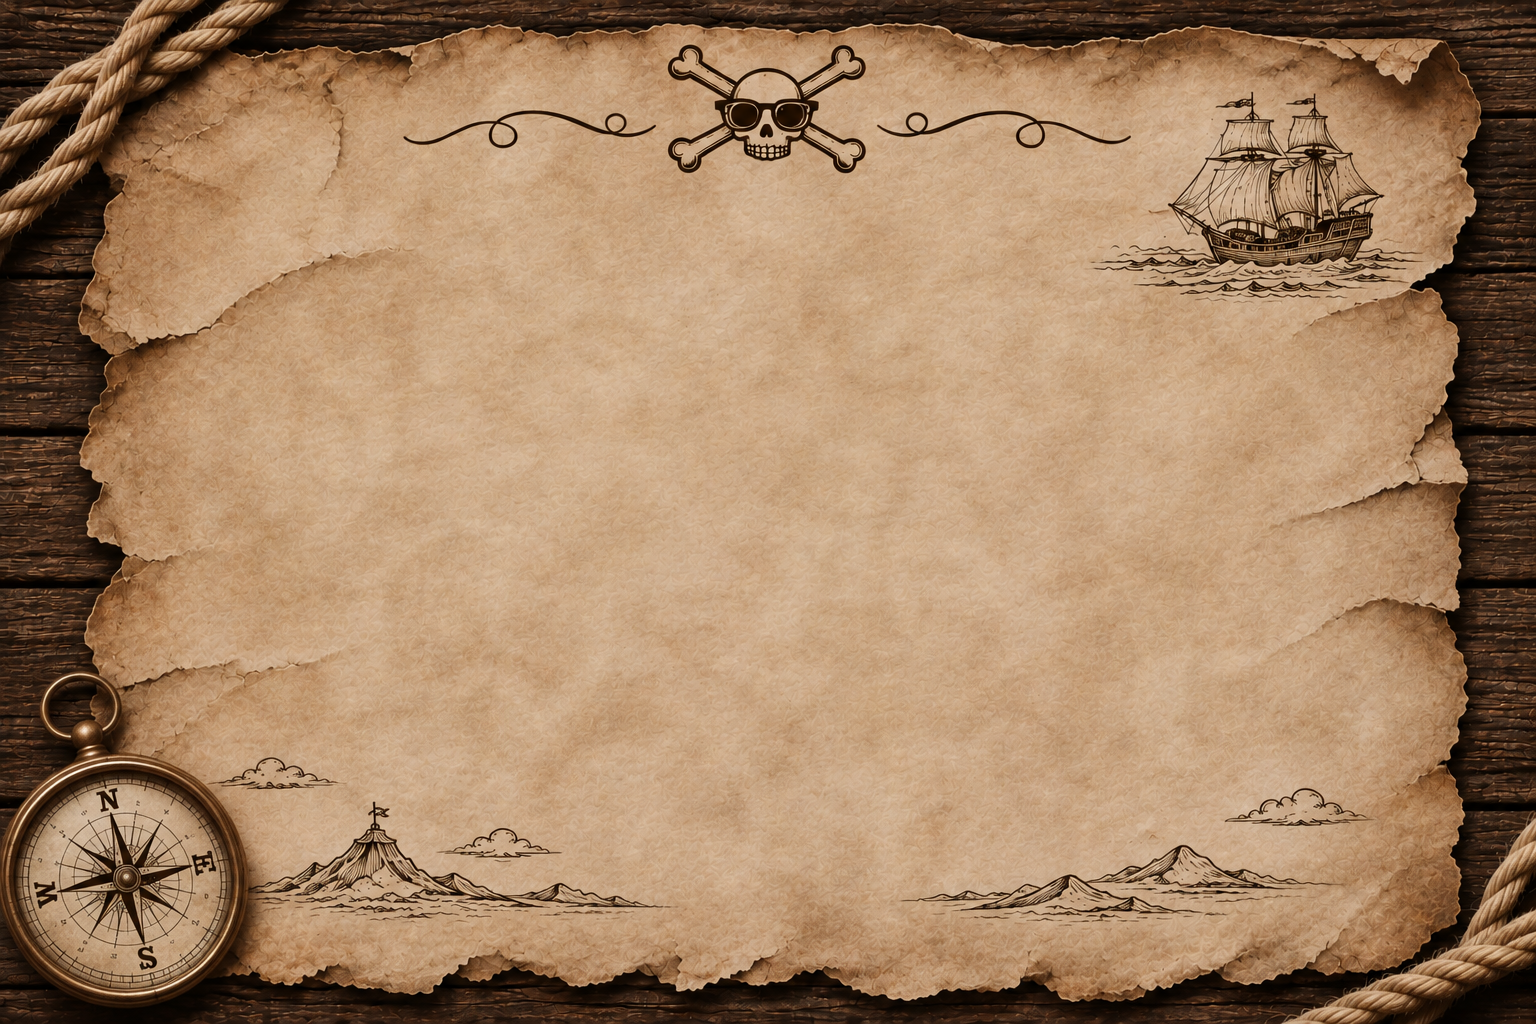
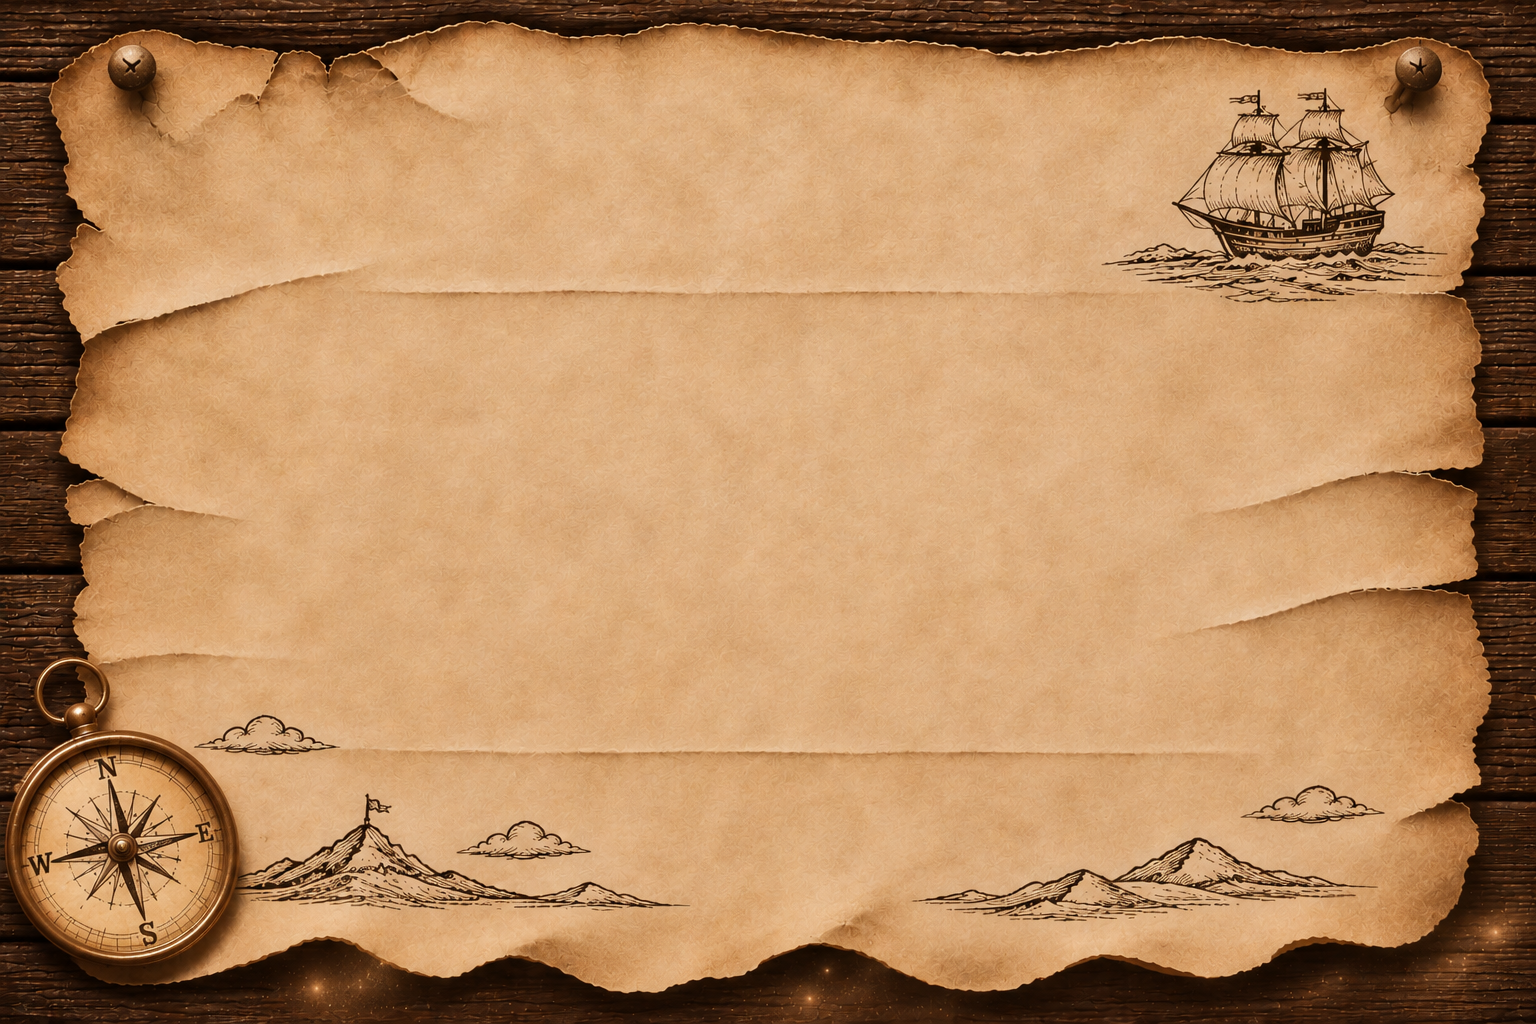
Apply final wanted poster design with dust animation

diff --git a/crew.html b/crew.html
@@ -6,8 +6,6 @@
   <meta name="viewport" content="width=device-width, initial-scale=1">
   <title>WANTED | Grand Security Line</title>
 
-  <link rel="preconnect" href="https://fonts.googleapis.com">
-  <link rel="preconnect" href="https://fonts.gstatic.com" crossorigin>
   <link href="https://fonts.googleapis.com/css2?family=Pirata+One&family=Noto+Serif+KR:wght@400;600;700&display=swap" rel="stylesheet">
 
   <style>
@@ -16,59 +14,56 @@
     body {
       margin: 0;
       min-height: 100vh;
-      padding: 24px 12px;
+      padding: 25px 12px;
       background: #24170f;
       font-family: "Noto Serif KR", serif;
-      color: #382015;
+      color: #3e2618;
     }
 
     .poster {
       position: relative;
-      isolation: isolate;
       width: min(100%, 1150px);
-      min-height: 720px;
+      min-height: 750px;
       margin: auto;
-      padding: 155px 13% 125px;
-      background-image: url("/voyage/wanted-bg.png");
-      background-position: center;
-      background-repeat: no-repeat;
-      background-size: 100% 100%;
+      padding: 125px 13% 130px;
+      background: url("/voyage/wanted-bg.png")
+                  center / 100% 100% no-repeat;
       text-align: center;
+      isolation: isolate;
     }
 
-    .poster-content {
+    .content {
       position: relative;
       z-index: 2;
+      animation: appear 1.2s ease-out both;
     }
 
     .wanted {
       margin: 0;
-      color: #68291c;
-      font-family: "Pirata One", serif;
-      font-size: clamp(58px, 9vw, 100px);
-      line-height: 1.1;
+      font-family: "Pirata One", Georgia, serif;
+      font-size: clamp(54px, 8vw, 92px);
+      font-weight: 400;
       letter-spacing: 3px;
+      line-height: 1.1;
+      color: #632f20;
     }
 
     .brand {
-      margin: 8px 0 28px;
-      font-size: 13px;
+      margin: 10px 0 25px;
+      font-size: 12px;
       font-weight: 700;
       letter-spacing: 3px;
     }
 
     .description {
       margin: 0 0 28px;
-      font-size: clamp(14px, 2vw, 19px);
+      font-size: clamp(14px, 2vw, 18px);
       font-weight: 700;
     }
 
     .ranking {
-      width: 100%;
-      border: 2px solid #704a2e;
-      border-radius: 4px;
-      overflow: hidden;
-      background: rgba(238, 213, 174, .13);
+      border: 1px solid rgba(85, 49, 27, .6);
+      background: rgba(238, 210, 166, .08);
     }
 
     table {
@@ -79,91 +74,173 @@
 
     th, td {
       padding: 15px 8px;
-      border-bottom: 1px solid rgba(85, 51, 27, .35);
+      border-bottom: 1px solid rgba(85, 49, 27, .28);
       overflow-wrap: anywhere;
     }
 
     th {
-      background: rgba(100, 62, 32, .12);
-      font-weight: 700;
+      background: rgba(99, 58, 30, .13);
+      font-size: 15px;
     }
 
-    th:first-child { width: 20%; }
-    th:last-child { width: 25%; }
+    td { font-size: 15px; }
+
+    th:first-child { width: 19%; }
+    th:last-child { width: 26%; }
 
     tbody tr:last-child td {
       border-bottom: none;
     }
 
+    tbody tr:first-child:not(:only-child) {
+      font-weight: 700;
+    }
+
     .note {
       margin: 25px 0 0;
       font-size: 12px;
-      color: #65482f;
+      opacity: .8;
     }
 
     .back {
       display: inline-block;
       margin-top: 30px;
-      padding: 12px 26px;
-      border: 2px solid #68452c;
+      padding: 11px 25px;
+      border: 1px solid #68452c;
+      background: rgba(230, 196, 148, .3);
       color: #422817;
-      background: rgba(224, 190, 142, .55);
       text-decoration: none;
       font-weight: 700;
       transition: background .2s;
     }
 
     .back:hover {
-      background: #d0a876;
+      background: rgba(113, 69, 38, .2);
     }
 
-    /* 오른쪽에서 날아와 꽂히는 칼 */
-    .sword {
+    /* 종이 아래쪽의 미세한 바람 그림자 */
+    .paper-shadow {
       position: absolute;
-      z-index: 3;
-      top: 25%;
-      right: 4%;
-      width: clamp(130px, 22vw, 245px);
-      height: auto;
+      z-index: 1;
+      left: 12%;
+      right: 12%;
+      bottom: 3%;
+      height: 18px;
+      border-radius: 50%;
+      background: rgba(0, 0, 0, .3);
+      filter: blur(16px);
       pointer-events: none;
-      filter: drop-shadow(5px 8px 4px rgba(0,0,0,.35));
-      transform-origin: center;
-      animation: sword-arrive 1.15s cubic-bezier(.2,.7,.25,1) both;
-      animation-delay: .3s;
+      animation: paper-breeze 7s ease-in-out infinite;
     }
 
-    @keyframes sword-arrive {
-      0% {
+    @keyframes paper-breeze {
+      0%, 35%, 100% {
+        transform: scaleY(.7) translateY(0);
+        opacity: .3;
+      }
+      50% {
+        transform: scaleY(1.15) translateY(-3px);
+        opacity: .5;
+      }
+      65% {
+        transform: scaleY(.8) translateY(0);
+        opacity: .3;
+      }
+    }
+
+    /* 먼지 입자 */
+    .dust {
+      position: absolute;
+      inset: 0;
+      overflow: hidden;
+      pointer-events: none;
+      z-index: 3;
+    }
+
+    .particle {
+      position: absolute;
+      bottom: 5%;
+      width: 3px;
+      height: 3px;
+      border-radius: 50%;
+      background: #f5e0b5;
+      box-shadow: 0 0 5px rgba(255, 223, 165, .6);
+      opacity: 0;
+      animation: float-dust 9s ease-in-out infinite;
+    }
+
+    .particle:nth-child(1) {
+      left: 16%;
+      animation-delay: 0s;
+    }
+
+    .particle:nth-child(2) {
+      left: 30%;
+      animation-delay: 2s;
+      width: 2px;
+      height: 2px;
+    }
+
+    .particle:nth-child(3) {
+      left: 57%;
+      animation-delay: 4s;
+    }
+
+    .particle:nth-child(4) {
+      left: 76%;
+      animation-delay: 1.5s;
+      width: 2px;
+      height: 2px;
+    }
+
+    .particle:nth-child(5) {
+      left: 87%;
+      animation-delay: 5s;
+    }
+
+    @keyframes float-dust {
+      0%, 20%, 100% {
         opacity: 0;
-        transform: translate(125vw, -90px) rotate(22deg);
+        transform: translate(0, 0);
+      }
+      35% {
+        opacity: .55;
       }
       70% {
-        opacity: 1;
-        transform: translate(-15px, 6px) rotate(-5deg);
+        opacity: .25;
+        transform: translate(22px, -90px);
       }
-      84% {
-        transform: translate(5px, -3px) rotate(3deg);
+      85% {
+        opacity: 0;
+        transform: translate(35px, -120px);
       }
-      100% {
+    }
+
+    @keyframes appear {
+      from {
+        opacity: 0;
+        transform: translateY(8px);
+      }
+      to {
         opacity: 1;
-        transform: translate(0, 0) rotate(0);
+        transform: translateY(0);
       }
     }
 
     @media (max-width: 650px) {
-      body { padding: 10px 4px; }
+      body { padding: 8px 3px; }
 
       .poster {
         min-height: 620px;
-        padding: 115px 9% 110px;
+        padding: 100px 9% 100px;
       }
 
       .wanted {
-        font-size: clamp(48px, 13vw, 72px);
+        font-size: clamp(46px, 12vw, 68px);
       }
 
       .brand {
-        font-size: 10px;
+        font-size: 9px;
         letter-spacing: 2px;
       }
 
@@ -172,17 +249,13 @@
         font-size: 12px;
       }
 
-      .sword {
-        top: 19%;
-        right: 0;
-        width: 115px;
-      }
-
       .note { font-size: 11px; }
     }
 
     @media (prefers-reduced-motion: reduce) {
-      .sword {
+      .content,
+      .paper-shadow,
+      .particle {
         animation: none;
       }
     }
@@ -192,15 +265,19 @@
 <body>
   <main class="poster">
 
-    <img
-      class="sword"
-      src="/voyage/sword.png"
-      alt=""
-      aria-hidden="true"
-    >
+    <div class="paper-shadow" aria-hidden="true"></div>
 
-    <div class="poster-content">
+    <div class="dust" aria-hidden="true">
+      <span class="particle"></span>
+      <span class="particle"></span>
+      <span class="particle"></span>
+      <span class="particle"></span>
+      <span class="particle"></span>
+    </div>
+
+    <div class="content">
       <h1 class="wanted">WANTED</h1>
+
       <p class="brand">GRAND SECURITY LINE</p>
 
       <p class="description">
@@ -218,9 +295,7 @@
           </thead>
           <tbody id="crew-ranking">
             <tr>
-              <td colspan="3">
-                항해자 명부를 불러오는 중...
-              </td>
+              <td colspan="3">항해자 명부를 불러오는 중...</td>
             </tr>
           </tbody>
         </table>
@@ -246,15 +321,20 @@
 
       function showMessage(message) {
         tbody.replaceChildren();
+
         const row = tbody.insertRow();
         const cell = row.insertCell();
+
         cell.colSpan = 3;
         cell.textContent = message;
       }
 
       try {
         const response = await fetch(url, {
-          headers: { "Accept": "application/json" }
+          method: "GET",
+          headers: {
+            "Accept": "application/json"
+          }
         });
 
         if (!response.ok) {
@@ -264,7 +344,7 @@
         const data = await response.json();
 
         if (!Array.isArray(data.leaderboard)) {
-          throw new Error("Invalid leaderboard");
+          throw new Error("Invalid leaderboard response");
         }
 
         const visitors = data.leaderboard.slice(0, 10);
@@ -291,6 +371,7 @@
 
       } catch (error) {
         console.error("Leaderboard error:", error);
+
         showMessage("항해자 명부를 불러오지 못했습니다.");
         status.textContent = "잠시 후 다시 시도해 주세요.";
       }
